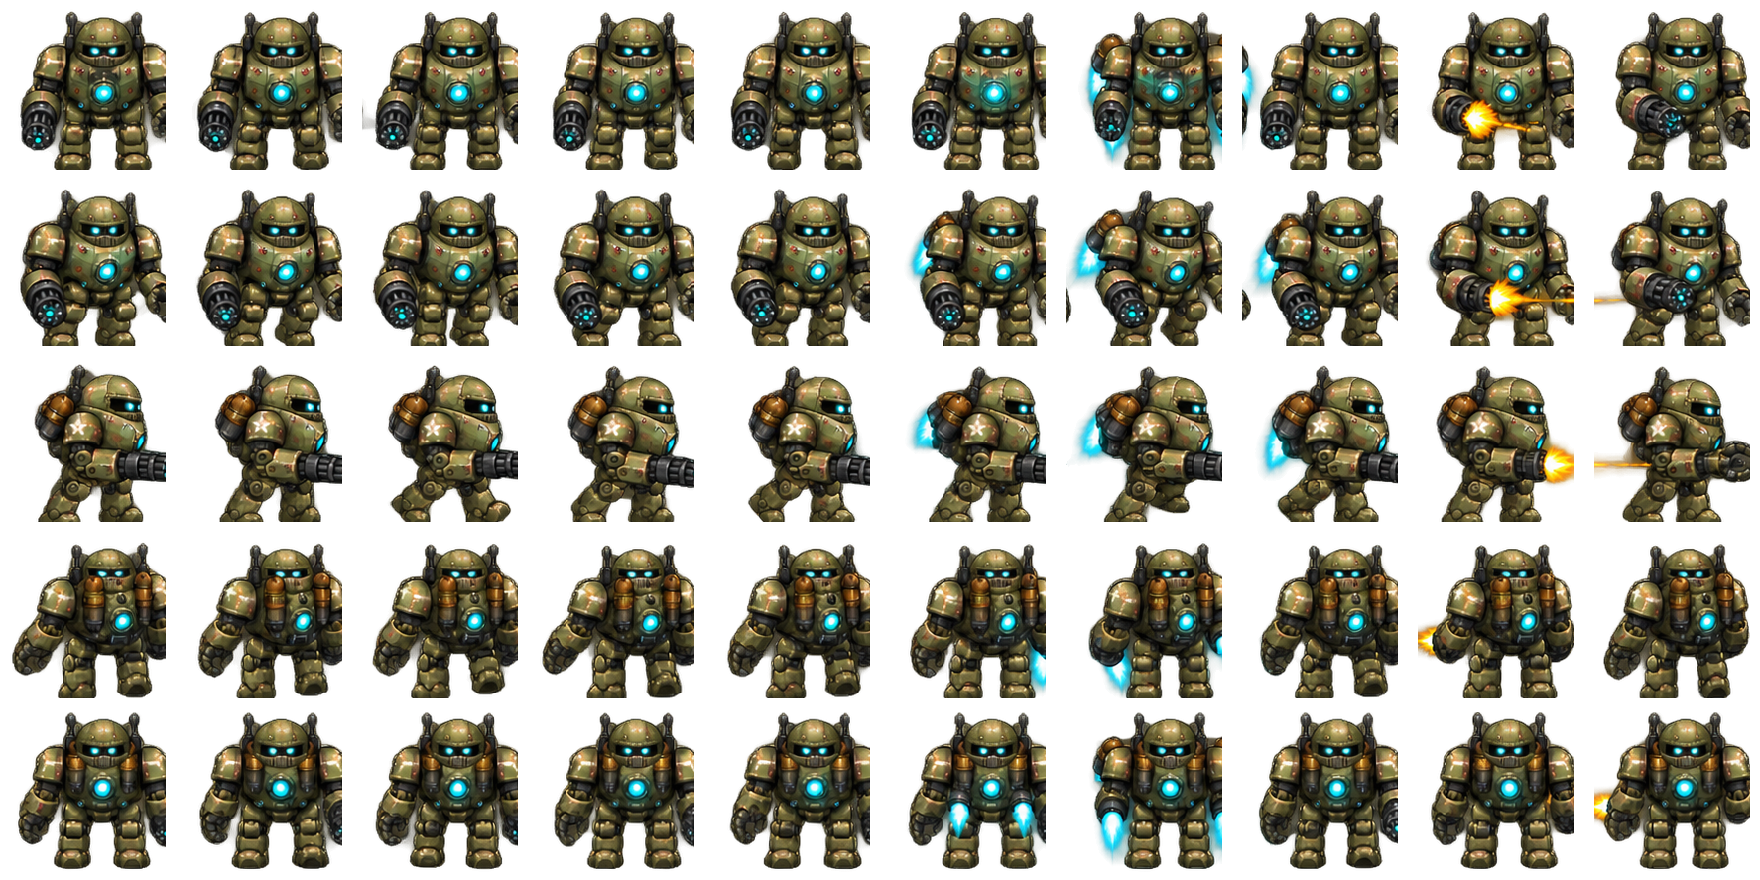
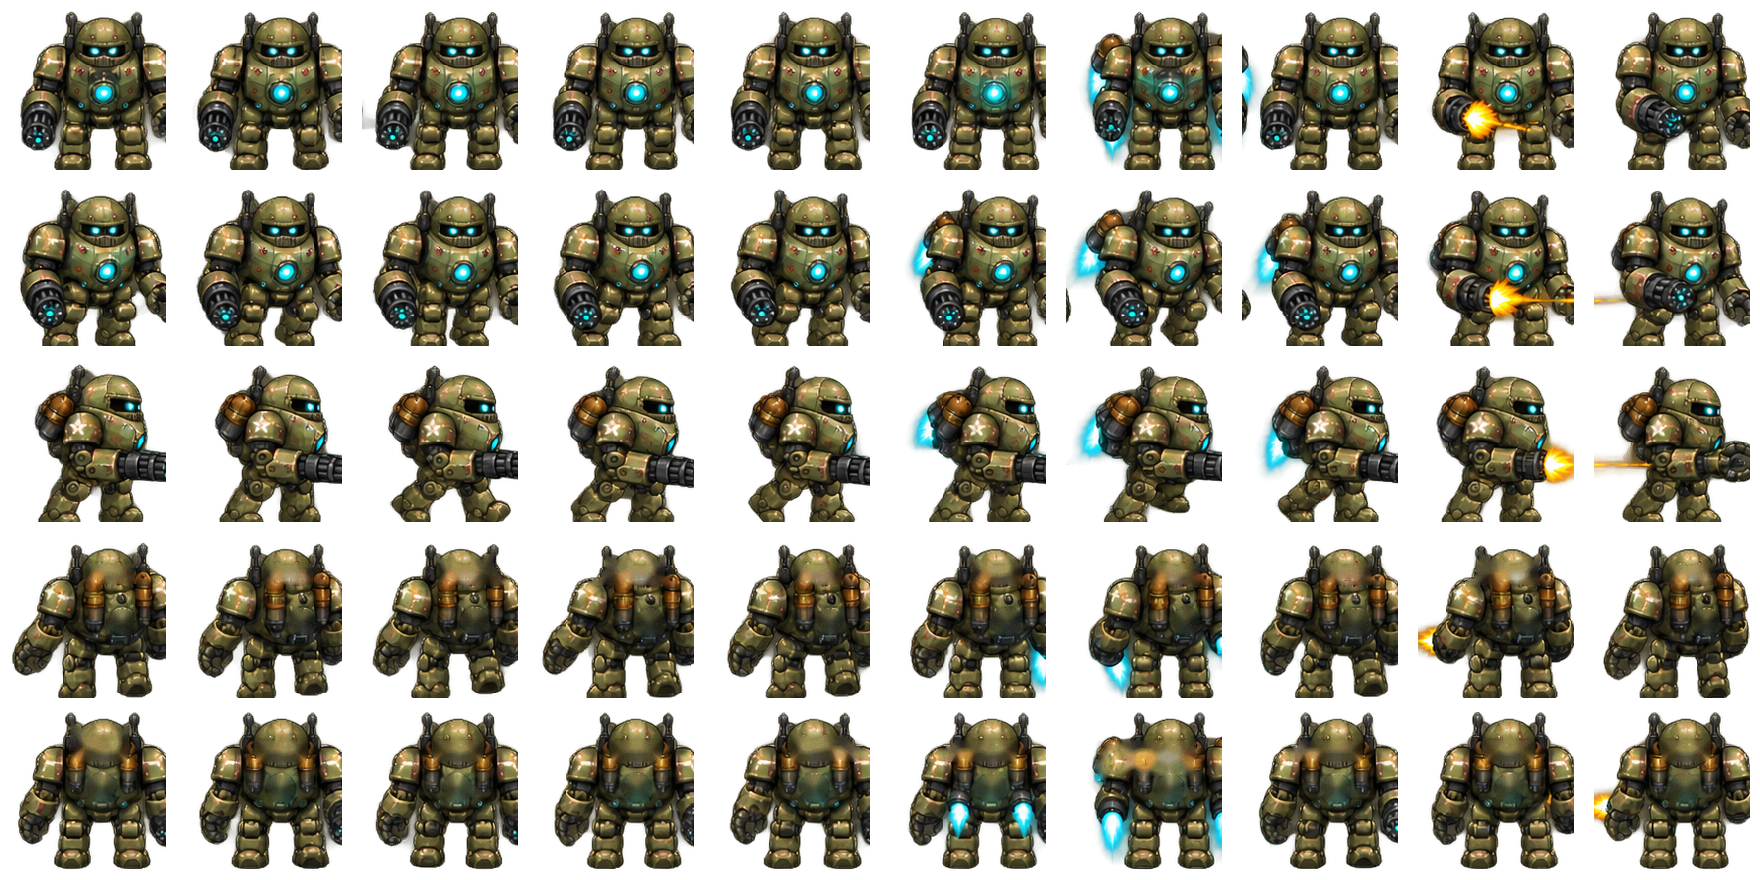
0.15: corrige lateral e integra vistas traseiras do Titan

diff --git a/tools/titan_back_view.py b/tools/titan_back_view.py
@@ -1,0 +1,78 @@
+"""0.15: transforma as linhas 3 e 4 do atlas do Titan em vistas de COSTAS.
+
+O atlas v3 gerado por IA veio com as linhas 3 (costas-3/4) e 4 (costas) mostrando
+o rosto: viseira acesa e núcleo ciano no peito. No jogo, olhar/andar para cima
+com o Titan parecia "não mudar o sprite". Este passo apaga a viseira e o núcleo
+(inpaint na cor da blindagem), deixando só os tanques laranja, que passam a ler
+como mochila. Os jatos do boost (parte de baixo) são preservados.
+
+Uso: python tools/titan_back_view.py   (roda também no fim de clean_titan_atlas.py)
+É idempotente: rodar de novo não altera um atlas já corrigido.
+"""
+
+from pathlib import Path
+
+import cv2
+import numpy as np
+from PIL import Image
+
+ROOT = Path(__file__).resolve().parents[1]
+ATLAS = ROOT / "assets" / "mech" / "titan_v3_clean.png"
+CELL = 176
+COLS = 10
+BACK_ROWS = (3, 4)
+
+
+def _components(mask: np.ndarray):
+    n, _, stats, centers = cv2.connectedComponentsWithStats(mask.astype(np.uint8), 8)
+    return [(stats[i], centers[i]) for i in range(1, n)]
+
+
+def back_view(cell: np.ndarray) -> np.ndarray:
+    rgb = cell[:, :, :3].astype(int)
+    alpha = cell[:, :, 3]
+    r, g, b = rgb[..., 0], rgb[..., 1], rgb[..., 2]
+    lum = rgb.sum(-1) / 3
+    solid = cv2.erode((alpha > 200).astype(np.uint8), np.ones((5, 5), np.uint8))
+    cyan = (b > 130) & (g > 120) & (b - r > 35) & (alpha > 0)
+    cyan[112:] = False  # jatos do boost ficam embaixo: não mexer
+    mask = np.zeros(alpha.shape, np.uint8)
+    for (x, y, w, h, area), (cx, cy) in _components(cyan):
+        if area < 4:
+            mask[y:y + h, x:x + w] |= cyan[y:y + h, x:x + w].astype(np.uint8)
+        elif 70 <= cy < 104 and 40 < cx < 140 and area > 40:  # núcleo do peito
+            cv2.circle(mask, (int(cx), int(cy)), int(max(w, h) * 0.5) + 5, 1, -1)
+    head = cyan.copy()
+    head[70:] = False
+    ys, xs = np.nonzero(head)
+    if len(ys):  # viseira: olhos + faixa escura em volta
+        box = np.zeros_like(mask)
+        box[max(0, ys.min() - 7):ys.max() + 8, max(0, xs.min() - 12):xs.max() + 13] = 1
+        mask |= ((box == 1) & ((lum < 95) | head)).astype(np.uint8)
+    mask = cv2.dilate(mask, np.ones((3, 3), np.uint8), 1) & solid
+    if not mask.any():
+        return cell
+    base = cell[:, :, :3].copy()
+    armor = np.median(cell[(alpha > 200) & (lum > 60) & (lum < 150)][:, :3], axis=0).astype(np.uint8)
+    base[alpha < 200] = armor  # evita que o inpaint puxe preto do fundo transparente
+    bgr = cv2.cvtColor(base, cv2.COLOR_RGB2BGR)
+    filled = cv2.cvtColor(cv2.inpaint(bgr, mask * 255, 7, cv2.INPAINT_TELEA), cv2.COLOR_BGR2RGB).astype(float)
+    filled += np.random.default_rng(1).normal(0, 4, filled.shape)  # textura leve
+    filled = np.clip(filled, 0, 255).astype(np.uint8)
+    out = cell.copy()
+    out[:, :, :3] = np.where(mask[..., None] > 0, filled, cell[:, :, :3])
+    return out
+
+
+def main() -> None:
+    atlas = np.array(Image.open(ATLAS).convert("RGBA"))
+    for row in BACK_ROWS:
+        for col in range(COLS):
+            y, x = row * CELL, col * CELL
+            atlas[y:y + CELL, x:x + CELL] = back_view(atlas[y:y + CELL, x:x + CELL])
+    Image.fromarray(atlas).save(ATLAS, optimize=True)
+    print(f"Vistas de costas do Titan aplicadas em {ATLAS}")
+
+
+if __name__ == "__main__":
+    main()

diff --git a/tools/clean_titan_atlas.py b/tools/clean_titan_atlas.py
@@ -103,6 +103,9 @@ def main() -> None:
     OUTPUT.parent.mkdir(parents=True, exist_ok=True)
     output.save(OUTPUT, optimize=True)
     print(f"Atlas limpo salvo em {OUTPUT}")
+    # 0.15: linhas 3 e 4 viram costas de verdade (sem viseira/núcleo)
+    from titan_back_view import main as apply_back_view
+    apply_back_view()
 
 
 if __name__ == "__main__":
